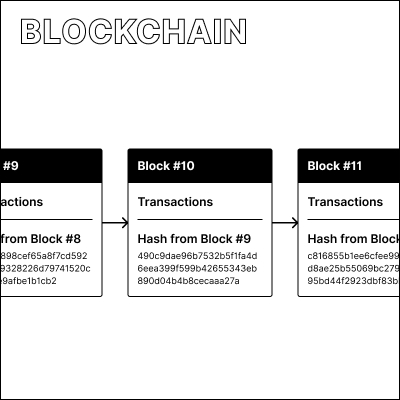
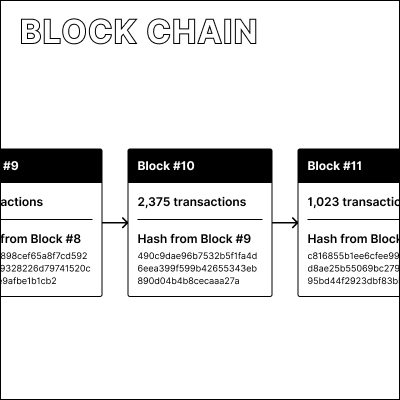
More tech primer copy

Changed region(s): [[0.33, 0.03, 0.66, 0.12], [0.75, 0.48, 1.0, 0.54], [0.33, 0.48, 0.63, 0.54]]

diff --git a/guide/getting-started/12-technology-primer.md b/guide/getting-started/12-technology-primer.md
@@ -18,7 +18,7 @@ and work backwards to the technology.
 
 # Bitcoin technology primer
 
-It can take many years to understand bitcoin in every detail, but luckily you don’t need to know everything to design great products. Let’s take a look at the most important ideas and technolgies behind Bitcoin, with an eye towards the basics you may need to design bitcoin products.
+It can take many years to understand bitcoin in every detail, but luckily you don’t need to know everything to design great products. Let’s take a look at the most important ideas and technologies behind Bitcoin, with an eye towards the basics you may need to design bitcoin products.
 
 ## The whitepaper
 
@@ -33,7 +33,7 @@ It can take many years to understand bitcoin in every detail, but luckily you do
    layout = "float-right-desktop"
 %}
 
-The most fundamental read is the Bitcoin White Paper. Published on October 31, 2008 by the mysterious Satoshi Nakamoto, it lays out the fundamental system design in only 9 short pages.
+The most fundamental read is the [Bitcoin whitepaper](https://bitcoin.org/bitcoin.pdf){:target="_blank"}. Published on October 31, 2008 by the mysterious Satoshi Nakamoto, it lays out the fundamental system design in only 9 short pages. It is not overly technical and makes for a great starting point.
 
 </div>
 
@@ -67,7 +67,9 @@ It's both. Lowercase bitcoin refers to the currency. So you may have 1 bitcoin i
    layout = "float-right-desktop"
 %}
 
-Bitcoin (as in "I have 1 bitcoin") are numbers associated with addresses. Just like bank account numbers, addresses are long, alphanumerical strings. A transaction involves sending bitcoin from one address to another. This reduces the balance (more on that below) of the sending address, and increases the balance of the receiving address.
+Bitcoin (as in "I have 1 bitcoin") are numbers associated with addresses.
+
+Just like bank account numbers, addresses are long, alphanumerical strings. A transaction involves sending bitcoin from one address to another. This reduces the balance (more on that below) of the sending address, and increases the balance of the receiving address.
 
 Owning a bitcoin therefore means being in control of one or more addresses that have received bitcoin.
 
@@ -103,9 +105,7 @@ Yes. Bitcoin has a subunit called Satoshi. 1 bitcoin is one hundred million Sato
    layout = "float-right-desktop"
 %}
 
-Modern Bitcoin wallet can generate as many addresses as you need (using a standard called Hierarchical Deterministic Wallets, specified in [BIP 32](https://github.com/bitcoin/bips/blob/master/bip-0032.mediawiki){:target="_blank"}).
-
-Note that addresses are generated on your own computer. There is no centralized system to verify or approve them.
+Modern Bitcoin wallet can generate as many addresses as you need. Note that addresses are generated on your own computer. There is no centralized system to verify or approve them.
 
 It is best practice to use a new address for every transaction as it makes it easier to identify them. There are also privacy benefits, as transaction data is public and re-using addresses allows for tracing of your financial habits.
 
@@ -124,7 +124,26 @@ It is best practice to use a new address for every transaction as it makes it ea
    layout = "float-right-desktop"
 %}
 
-The Bitcoin network does not store your balance. It is dynamically calculated by summing up all bitcoin you have received and subtracting the ones you have spent. So a wallet application needs to know your full transaction history in order to calculate how much you bitcoin you still control.
+The Bitcoin network does not store your balance. It is dynamically calculated by summing up all bitcoin you have received and subtracting the ones you have spent.
+
+So a wallet application needs to know your full transaction history in order to calculate how much you bitcoin you control.
+
+</div>
+
+## Do I need to remember all my addresses?
+
+<div class="center" markdown="1">
+
+{% include image.html
+   image = "/assets/images/guide/getting-started/technology/derivation.jpg"
+   retina = "/assets/images/guide/getting-started/technology/derivation@2x.jpg"
+   alt-text = ""
+   width = 400
+   height = 400
+   layout = "float-right-desktop"
+%}
+
+No. Most wallets generate them using a standard called Hierarchical Deterministic Wallets, specified in [BIP 32](https://github.com/bitcoin/bips/blob/master/bip-0032.mediawiki){:target="_blank"}). So all your addresses and private keys are derived from a single piece of information, called the recovery phrase.
 
 </div>
 
@@ -141,11 +160,12 @@ The Bitcoin network does not store your balance. It is dynamically calculated by
    layout = "float-right-desktop"
 %}
 
-As we know now, bitcoin are just numbers linked to addresses. An address can receive bitcoin, but in oder to spend those bitcoin, a private key is needed. When an address is generated, a matching private key is also created (this technique is called [public key cryptography](https://en.wikipedia.org/wiki/Public-key_cryptography){:target="_blank"}). While the address can be publicly shared, the private key should be kept a secret as anyone who knows it can spend from the address.
+As we now know, bitcoin are just numbers linked to addresses. An address can receive bitcoin, but in oder to spend those bitcoin, a private key is needed. Every time an address is generated, a matching private key is also created (this technique is called [public key cryptography](https://en.wikipedia.org/wiki/Public-key_cryptography){:target="_blank"}). While the address can be publicly shared, the private key should be kept a secret as anyone who knows it can spend from the address.
 
 Wallet software typically hides private keys, as users don't need to interact with them. But just like addresses, private keys are generated on your computer, and there is no central authority. That is why it is crucial for users to back up their keys, and for applications to support and encourage best practices.
 
-Read more in our chapter about [Private Key Management](/).
+Keep reading:
+- [Private Key Management](/)
 
 </div>
 
@@ -199,11 +219,13 @@ They have restrictions on file size, so a block can only contain a certain numbe
    layout = "float-right-desktop"
 %}
 
-Another fundamental technique to cryptography and Bitcoin is called hashing. It is the process of taking data and applying a function that creates a unique identifier for it, which can be thought of as a fingerprint. This process cannot be reversed, meaning that that the original data cannot be restored from the hash. Because hashes are small in size, they are a great way to verify the authenticity of specific information. 
+Another fundamental technique to cryptography and Bitcoin is called hashing. It is the process of taking data and applying a function that creates a unique identifier for it. This is called a hash and can be thought of as a fingerprint.
+
+This process cannot be reversed, meaning that that the original data cannot be restored from the hash. Because hashes are small in size, they are a great way to verify the authenticity of specific information. 
 
 </div>
 
-## What is a blockchain?
+## What is a block chain?
 
 <div class="center" markdown="1">
 
@@ -253,3 +275,7 @@ This function is performed by miners, which are computers that group new transac
 While miners create blocks, nodes verify and store those blocks. Just like miners, nodes are computers connected to each other, constantly exchanging information to ensure that the rules of the Bitcoin protocol are adhered to. 
 
 </div>
+
+These are some of the basic technological concepts that make Bitcoin work. Each one individually is very complex, and some of the other chapters in this guide explore them in much more detail.
+
+
